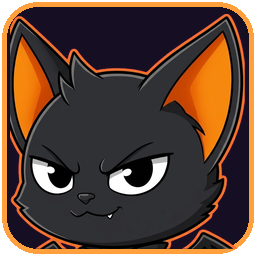
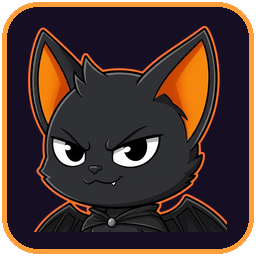
Same picture on every landscape screen, larger lobby controls, no false out-of-sync with computer seats
- Landscape screens draw one picture with a 16:9 core and scale it with CSS; wider screens fill left and right. Android full screen keeps the same layout.
- Lobby, hero picker, dialogs and settings button are larger; the bat portrait sits inside its frame; the lobby says why it has no room code.
- Computer seats send the real landing of their throws, so the page no longer reports "out of sync" for them.

diff --git a/index.html b/index.html
@@ -460,7 +460,7 @@
     /* The box alone sets the width of the whole element, so the left and right boxes mirror each other; the label floats centred above it. */
     html .top-supply { width:44px; min-height:44px; justify-content:center; align-items:center; }   /* the touch area stays 44 px; the drawn box inside is smaller (owner: supply smaller) */
     html .top-supply .ts-label { position:absolute; left:50%; bottom:100%; transform:translateX(-50%); white-space:nowrap; margin-bottom:2px; }
-    :root { --max-aspect: 2.4; }
+    :root { --max-aspect: calc(16 / 9); }   /* LOCKED (owner 2026-11-26, MOBILE-RATIO-1): the stage is 16:9 on every screen; spare width shows the backdrop. Pinned by scripts/test_phone_viewport.js */
     /* Overlays that sit at the edges of the 16:9 core keep their place when the canvas is widened (--pad-frac = side area share of the width). */
     html .top-supply.left { left:calc(var(--pad-frac, 0) * 100% + (1 - 2 * var(--pad-frac, 0)) * 1.2%) !important; }
     html .top-supply.right { right:calc(var(--pad-frac, 0) * 100% + (1 - 2 * var(--pad-frac, 0)) * 1.2%) !important; }
@@ -626,7 +626,7 @@
     @media (max-height:540px) and (orientation:landscape) {
       body { justify-content:flex-start; padding-left:max(env(safe-area-inset-left, 0px), env(safe-area-inset-right, 0px)); padding-right:max(env(safe-area-inset-left, 0px), env(safe-area-inset-right, 0px)); }   /* 2026-11-24 (owner, option 1): keep the camera-hole inset clear on BOTH sides so the stage is centred; with no inset nothing changes (scripts/test_safe_area_center.js) */
       /* 2026-11-17 (owner: 'the bottom part used to be INSIDE the frame, like the desktop shot'): on a landscape phone the stage takes the full visible height and the dock sits INSIDE it, 6 px above the bottom edge, as wide as 94 percent of the stage (at most 640 px). Everything is a proportion of the stage, so it follows any viewport; layoutReport() and scripts/measure_phone_layout.mjs check the coordinates. */
-      #game-container { width:min(100%, calc((var(--visible-viewport-height) - env(safe-area-inset-top) - env(safe-area-inset-bottom)) * var(--max-aspect, 2.4))); height:min(calc(var(--visible-viewport-height) - env(safe-area-inset-top) - env(safe-area-inset-bottom)), calc((var(--visible-viewport-width) - env(safe-area-inset-left) - env(safe-area-inset-right)) * 9 / 16)); aspect-ratio:auto; border-radius:0; }
+      #game-container { width:min(100%, calc((var(--visible-viewport-height) - env(safe-area-inset-top) - env(safe-area-inset-bottom)) * var(--max-aspect, 1.7778))); height:min(calc(var(--visible-viewport-height) - env(safe-area-inset-top) - env(safe-area-inset-bottom)), calc((var(--visible-viewport-width) - env(safe-area-inset-left) - env(safe-area-inset-right)) * 9 / 16)); aspect-ratio:auto; border-radius:0; }
       /* the dock's size, place and children now live in css/dock_stage.css (one owner, no media query) */
       #top-controls { position:absolute; top:12% !important; right:8px !important; left:auto !important; transform:none !important; }
       .top-supply.left, .top-supply.right { top:34% !important; }   /* both supply boxes at the same height (owner: the heights differed: the right one sat at 40 percent while the left one sat at 20) */
@@ -652,7 +652,51 @@
     #settings-sheet input[type="range"] { flex: 1 1 auto; min-width: 48px; width: auto; }
     #settings-sheet .settings-control output, #settings-sheet .settings-value { font-size: 13px; min-width: 38px; text-align: right; }
     /* ROOM-FLOW lobby (the second page) and the name dialog */
-    #lobby { position:fixed; inset:0; z-index:70; display:grid; grid-template-columns:minmax(0,1fr); grid-template-rows:auto minmax(0,1fr) auto auto auto; gap:6px; padding:max(6px, env(safe-area-inset-top)) max(16px, env(safe-area-inset-right)) max(6px, env(safe-area-inset-bottom)) max(16px, env(safe-area-inset-left)); background:radial-gradient(ellipse at 50% 0%, #2a1650 0%, #120a22 70%); color:#f1eaff; font-family:var(--font-body, system-ui, sans-serif); overflow:auto; }
+    #lobby { position:fixed; left:50%; top:50%; width:1024px; height:576px; transform:translate(-50%,-50%) scale(var(--lobby-fit,1)); transform-origin:center; border:3px solid #5a328c; border-radius:14px; box-shadow:0 0 0 100vmax rgba(5,2,10,.9); box-sizing:border-box; z-index:70; display:grid; grid-template-columns:minmax(0,1fr); grid-template-rows:auto minmax(0,1fr) auto auto auto; gap:6px; padding:max(6px, env(safe-area-inset-top)) max(16px, env(safe-area-inset-right)) max(6px, env(safe-area-inset-bottom)) max(16px, env(safe-area-inset-left)); background:radial-gradient(ellipse at 50% 0%, #2a1650 0%, #120a22 70%); color:#f1eaff; font-family:var(--font-body, system-ui, sans-serif); overflow:auto; }
+    /* MOBILE-RATIO-1: the lobby is ONE 1024 x 576 picture scaled to the screen, so a phone and a computer show exactly the same thing */
+    @media (orientation:portrait) { #lobby { left:0; top:0; width:100vw; height:var(--visible-viewport-height, 100vh); transform:none; border-width:0; border-radius:0; } }
+    /* ONE PICTURE (MOBILE-RATIO-1): see pictureFit() in the script */
+    html.one-picture #game-container { position:fixed !important; left:50% !important; top:50% !important; width:var(--pic-w) !important; height:var(--pic-h) !important; max-width:none !important; max-height:none !important; aspect-ratio:auto !important; transform:translate(-50%,-50%) scale(var(--pic-scale)) !important; transform-origin:center center; }
+    html.one-picture #bottom-dock { width:calc(min(84cqw, 1111px) / var(--dock-scale, 1)) !important; }   /* 84 percent of the 1323 px core, not of the widened stage */
+    html.one-picture #settings-sheet { width:720px !important; max-width:720px !important; max-height:632px !important; }
+    html.one-picture #coin-toss-coin { width:260px; }
+    html.one-picture #lobby-qr canvas { width:240px; height:240px; }
+    html.in-lobby #start-screen, html.in-lobby #top-controls { visibility:hidden !important; }   /* the 16:9 lobby does not cover the whole screen: nothing behind it may take a tap (red team L01-L03) */
+    /* the old ?room= friends panel keeps its compact sizes inside the single picture, so the code, QR and link stay visible without scrolling */
+    html.one-picture #start-screen.seats-open #friends-panel { width:600px !important; max-height:352px !important; padding:5px 40px 5px 10px !important; }
+    html.one-picture #start-screen.seats-open #friends-panel .seat-row, html.one-picture #start-screen.seats-open #friends-panel .seat-row + .seat-row { margin:1px 0; gap:4px; }
+    html.one-picture #start-screen.seats-open #friends-panel .seat-choice, html.one-picture #start-screen.seats-open #friends-panel .seat-level { height:28px; min-height:28px; padding:2px 7px; font-size:11px; }
+    html.one-picture #start-screen.seats-open #friends-panel .room-actions button { min-height:28px; min-width:82px; padding:2px 8px; font-size:11px; }
+    html.one-picture #room-details { margin-top:2px; gap:3px 10px; grid-template-columns:auto 70px; } html.one-picture #room-qr { width:70px; height:70px; }
+    html.one-picture #side-chooser .side-card { width:900px; max-height:none; gap:16px; } html.one-picture #side-chooser h2 { font-size:34px; } html.one-picture #side-chooser .side-code { font-size:40px; }
+    html.one-picture #side-chooser .side-btn { min-height:140px; font-size:36px; } html.one-picture #side-chooser .seat-choice { min-height:140px; min-width:140px; font-size:28px; }
+    /* BIGGER CONTROLS (owner 2026-11-26): the same enlargement on every device, inside the 744 px picture, so nothing leaves it. Checked by the overflow audit. */
+    html.one-picture #lobby { width:820px; height:461px; }
+    /* friend battle (owner 2026-11-26: "bigger, so the others can read it"): seats, names, room code */
+    html.one-picture #lobby { padding-top:4px; padding-bottom:4px; gap:5px; }
+    html.one-picture #lobby-code { font-size:28px !important; } html.one-picture #lobby-title, html.one-picture #lobby-count { font-size:20px; } html.one-picture #lobby-bar button { font-size:16px; }
+    html.one-picture .lobby-team h3 { font-size:19px; margin-bottom:3px; } html.one-picture .lobby-cells { gap:4px; }
+    html.one-picture .lobby-cell { min-height:52px; padding-top:0; padding-bottom:0; line-height:1.2; } html.one-picture .lobby-cell .who { font-size:22px; font-weight:800; } html.one-picture .lobby-cell small { font-size:15px; }
+    html.one-picture .lobby-cell .chip { width:16px; height:36px; } html.one-picture .lobby-cell .cell-act, html.one-picture .lobby-cell .cell-kick { font-size:16px !important; min-height:40px !important; font-weight:700; }
+    html.one-picture #lobby-foot label { font-size:17px; } html.one-picture #lobby-foot input { width:24px; height:24px; } html.one-picture #lobby-start { font-size:18px; min-height:46px; } html.one-picture #lobby-wait { font-size:15px; }
+    /* hero choice (owner 2026-11-26: too small): its own centred row under the teams, large portrait, large Lock button beside it */
+    html.one-picture #lobby-mine { justify-content:center; gap:14px; padding:4px 0; }
+    html.one-picture #lobby-heroes { gap:10px; } html.one-picture #lobby-heroes .hero-pick { min-height:84px; gap:10px; padding:4px 14px 4px 6px; font-size:20px; font-weight:800; border-width:2px; border-color:#ffd32a; }
+    html.one-picture #lobby-heroes .hero-pick-ico { width:72px; height:72px; border-radius:10px; }
+    html.one-picture #lobby-lock { min-height:68px; min-width:130px; font-size:22px; font-weight:800; }
+    html.one-picture #lobby-rename { min-height:48px; } html.one-picture #lobby-me { font-size:18px; }
+    html.one-picture #lobby:has(#lobby-invite-box:not([hidden])) .lobby-cell { min-height:0; padding-top:0; padding-bottom:0; line-height:1.05; }   /* the invite box takes a row: the three cells of a team close up instead of scrolling */
+    html.one-picture #lobby:has(#lobby-invite-box:not([hidden])) .lobby-cell .cell-act, html.one-picture #lobby:has(#lobby-invite-box:not([hidden])) .cell-kick { min-height:30px !important; }
+    html.one-picture #lobby:has(#lobby-invite-box:not([hidden])) .lobby-cell .who { font-size:18px; } html.one-picture #lobby:has(#lobby-invite-box:not([hidden])) .lobby-cell small { font-size:12px; } html.one-picture #lobby:has(#lobby-invite-box:not([hidden])) .lobby-cell .chip { height:28px; }
+    html.one-picture #lobby:has(#lobby-invite-box:not([hidden])) #lobby-invite-box { flex-wrap:nowrap; } html.one-picture #lobby:has(#lobby-invite-box:not([hidden])) #lobby-invite-text { flex:1 1 auto; min-width:0; white-space:nowrap; overflow:hidden; text-overflow:ellipsis; }
+    html.one-picture #settings-sheet { scale:1.35; }
+    html.one-picture #first-hint { scale:1.2; }
+    html.one-picture #name-dialog .name-card, html.one-picture #join-code-dialog .name-card { scale:1.45; }
+    html.one-picture #coin-call button { min-width:180px; min-height:68px; font-size:26px; }
+    html.one-picture #coin-call { font-size:28px; }
+    html.one-picture #coin-toss-coin { width:300px; }
+    html.one-picture:not(.pk-a):not(.pk-b) #top-controls { width:calc(44px * var(--dock-scale, 1)) !important; height:calc(44px * var(--dock-scale, 1)) !important; right:calc(var(--pad-frac, 0) * 100% + 8px) !important; }
+    html.one-picture:not(.pk-a):not(.pk-b) #top-controls #settings-btn > span { font-size:calc(34px * var(--dock-scale, 1)) !important; }
     #lobby[hidden], #name-dialog[hidden], #join-code-dialog[hidden], #lobby-qr[hidden], #lobby-invite-box[hidden], #lobby-toast[hidden], #lobby-countdown[hidden], #lobby-wait[hidden] { display:none !important; }
     #lobby button { min-height:40px; padding:4px 12px; border-radius:10px; border:1.5px solid #7158e2; background:#1d1238; color:#f1eaff; font:inherit; font-size:14px; cursor:pointer; }
     #lobby button:disabled { opacity:.42; cursor:not-allowed; }
@@ -918,6 +962,36 @@
       return { viewport: vv, stage: stage, dock: dockVisible ? dock : null, feetY: feetY, stageInside: stageInside, dockInStage: dockInStage, feetClear: feetClear, dockMissing: dockMissing, ok: stageInside && dockInStage && feetClear && !dockMissing };
     }
     window.layoutReport = layoutReport;
+    // ONE PICTURE (owner 2026-11-26, MOBILE-RATIO-1: "every device shows the same thing; fill left and right"; foldables excepted). On a landscape screen the whole game is drawn at ONE design size, 744 px high, with the same
+    // desktop style rules everywhere, and CSS scales that picture to the screen. The 16:9 core (menu, lobby, HUD, dock) is identical on all devices; a wider screen only gets more scenery at the sides, up to 2.4 : 1.
+    // It uses no viewport setting, so it also works in Android full screen (which ignores the meta viewport). Portrait screens and two-segment (folding) screens keep the responsive layout.
+    const PIC_H = 744, PIC_MIN_W = 1323, PIC_MAX_ASPECT = 2.4;
+    let pictureScale = 1, pictureOn = false;   // screen css px per picture px; is the single picture shown
+    function pictureFit(w, h, coarse) {   // pure: w, h = the free screen area in css px. null = no single picture (portrait)
+      const margin = coarse ? 0 : 24, aw = w - margin, ah = h - margin;
+      if (!(w > h) || !(aw > 0) || !(ah > 0)) return null;
+      const picW = Math.max(PIC_MIN_W, Math.min(Math.round(PIC_H * PIC_MAX_ASPECT), Math.round(PIC_H * aw / ah)));
+      return { w: picW, h: PIC_H, scale: Math.round(Math.min(ah / PIC_H, aw / picW) * 10000) / 10000 };
+    }
+    const mutedRules = new Map();   // screen-size style rules switched off while the single picture is shown (their original condition text)
+    function muteSizeRules(on) {
+      if (!on) { mutedRules.forEach((text, rule) => { rule.media.mediaText = text; }); mutedRules.clear(); return; }
+      const walk = rules => { for (const rule of Array.from(rules || [])) {
+        if (rule.media && !mutedRules.has(rule) && /(max|min)-(width|height)|orientation|hover: *none/.test(rule.media.mediaText)) { mutedRules.set(rule, rule.media.mediaText); rule.media.mediaText = "not all"; }
+        else if (rule.cssRules && !rule.selectorText) walk(rule.cssRules);
+      } };
+      for (const sheet of Array.from(document.styleSheets || [])) { try { walk(sheet.cssRules); } catch (e) { /* a sheet of another origin */ } }
+    }
+    function applyPicture(width, height, folding) {   // returns the picture, or null
+      const root = document.documentElement, style = document.body ? getComputedStyle(document.body) : null;
+      const inset = style ? (parseFloat(style.paddingLeft) || 0) + (parseFloat(style.paddingRight) || 0) : 0;
+      const pic = folding ? null : pictureFit(width - inset, height, typeof matchMedia === "function" && matchMedia("(pointer:coarse)").matches);
+      root.classList.toggle("one-picture", !!pic);
+      muteSizeRules(!!pic);
+      pictureScale = pic ? pic.scale : 1; pictureOn = !!pic;
+      if (pic) { root.style.setProperty("--pic-w", pic.w + "px"); root.style.setProperty("--pic-h", pic.h + "px"); root.style.setProperty("--pic-scale", String(pic.scale)); }
+      return pic;
+    }
     function fitVisibleViewport() {
       const viewport = window.visualViewport;
       const seg = pickViewportSegment();
@@ -930,9 +1004,11 @@
       root.style.setProperty("--visible-viewport-height", height + "px");
       // The start screen is laid out for at least 340 px of height; a shorter window (browser bars showing) scales it down evenly.
       root.style.setProperty("--start-scale", String(Math.min(1, Math.round(height / 340 * 1000) / 1000 || 1)));
-      const compactStart = width < 800 || height < 360;
+      const pic = applyPicture(width, height, !!seg);
+      const compactStart = !pic && (width < 800 || height < 360);
       root.classList.toggle("start-compact", compactStart);
-      root.style.setProperty("--start-fit", compactStart ? "1" : String(Math.round(Math.min(width / 800, height / 360) * 1000) / 1000 || 1));   // scale only when >= 800 x 360; smaller viewports use responsive start-compact layout at 1:1
+      root.style.setProperty("--start-fit", compactStart ? "1" : String(Math.round(Math.min(Math.min(pic ? pic.w : width, (pic ? pic.h : height) * 16 / 9) / 800, (pic ? pic.h : height) / 360) * 1000) / 1000 || 1));   // scale only when >= 800 x 360; smaller viewports use responsive start-compact layout at 1:1
+      root.style.setProperty("--lobby-fit", String(Math.round(Math.min(pic ? PIC_MIN_W / 838 : width / 1056, pic ? pic.h / 473 : height / 594) * 1000) / 1000 || 1));   // 16 px / 9 px of margin around the 1024 x 576 lobby
       const applyStage = () => {
         const fullHeightStageWidth = Math.min(width, height * 16 / 9);
         const sideMargin = Math.max(0, (width - fullHeightStageWidth) / 2);
@@ -940,7 +1016,7 @@
         root.classList.toggle("has-side-margin", false);   // the stage now fills the width; no side columns
         try { if (canvas && canvas.clientHeight > 0) setViewWidth(canvas.clientWidth / canvas.clientHeight); } catch (e) { /* canvas not ready yet */ }   // setViewWidth also re-applies the render scale
         const gc = document.getElementById("game-container");
-        if (gc) { const r = gc.getBoundingClientRect(); root.style.setProperty("--stage-w", r.width + "px"); root.style.setProperty("--stage-h", r.height + "px");
+        if (gc) { const r = gc.getBoundingClientRect(); root.style.setProperty("--stage-w", (gc.offsetWidth || r.width) + "px"); root.style.setProperty("--stage-h", (gc.offsetHeight || r.height) + "px");
           // the dock is designed for a stage 390 px high (scale 1, 52 px bar, 6 px gap; the reference comes from scripts/dock_fit_mask.py, binary masks of figures, rings and shadows) and scales as ONE picture with the stage height: scale = stage height / 390, never above 3. No per-size tuning; layoutReport measures the real feet line.
           root.style.setProperty("--dock-scale", String(Math.min(3, Math.round((gc.clientHeight || r.height) / 390 * 1000) / 1000))); }
       };
@@ -1410,7 +1486,9 @@
     function setRoomStatus(key, params) { const el = document.getElementById("room-status"); if (!el) return; if (!key) { el.hidden = true; el.textContent = ""; return; } el.textContent = T(key, params); el.hidden = false;
       if (joinRoomCode && !lobbyMode && !matchStarted && !relayPanelShown && (key === "room.unreachable" || key === "room.refused" || key === "room.started")) { relayPanelShown = true; const ss = document.getElementById("start-screen"); if (ss) ss.classList.add("seats-open"); }   // a ?room= guest never opened the friends panel, so a refusal would be invisible: open it ONCE, only for the guest of a link, only before a match (red-team R5B-1, R6B-1)
     }
+    let lobbyNet = "connecting";   // last relay status; the lobby has no room code until the room server answers, and must say why
     function roomStatusFromRelay(status) {
+      lobbyNet = status; if (lobbyMode && !relayRoomConfirmed) lobbyRender();
       if (relayRoomConfirmed) { setRoomStatus(status === "closed" ? "room.unreachable" : null); return; }   // a room that exists: only a final loss is an error; a reconnect is not
       if (status === "connecting") setRoomStatus("room.connecting"); else if (status === "reconnecting" || status === "closed") setRoomStatus("room.unreachable"); else setRoomStatus(null);
     }
@@ -1594,7 +1672,8 @@
         const start = { x: round1(u.x + dirX * fwd), y: round1(u.y - up) };
         const worldUnit = TEAM_N > 1 ? worldId : (filler.team === "red" ? "red_1" : "white_1");
         try {
-          filler.client.sendAction({ round: cur.round, phase: filler.team, unit: worldUnit, kind: "throw", angle, power, start, dirX, claimed_landing: { x: tgt ? round1(tgt.x) : 960, y: 860 } });
+          const land = relayFlightLanding(start.x, start.y, power, angle, dirX, prof.weapon === "proj_soundwave");   // the real landing: a made-up one (the target) raised "out of sync" on every computer throw
+          filler.client.sendAction({ round: cur.round, phase: filler.team, unit: worldUnit, kind: "throw", angle, power, start, dirX, claimed_landing: { x: Math.round(land.x), y: Math.round(land.y) } });
           filler.client.endTurn(cur.round, filler.team);
         } catch (_) {}
       }, 650);
@@ -1685,7 +1764,7 @@
     }
     function lobbyStart(name, how) {   // how: { create: true } or { code, invite }
       if (!relayAddress || typeof RelayClient === "undefined" || typeof LobbyModel === "undefined") { lobbyMode = true; lobbyState = null; lobbyShow(true); lobbyToast(T("lobby.noServer")); return; }
-      lobbyMode = true; lobbyState = null; lobbyInvite = ""; relayLeft = false; relaySeatId = ""; relaySeats = [];
+      lobbyMode = true; lobbyState = null; lobbyInvite = ""; relayLeft = false; relaySeatId = ""; relaySeats = []; lobbyNet = "connecting";   // never show the last room's failure on a new attempt (red team L04)
       if (!how.create && !lobbyResumeTried) { lobbyResumeTried = true; const token = lobbyStoredSeat(how.code); if (token) { resumeSeat = token; how = Object.assign({}, how, { resume: true }); } }
       let client = null; try { client = connectRelay(); } catch (_) { client = null; }
       if (!client) { lobbyToast(T("lobby.noServer")); lobbyShow(true); return; }
@@ -1842,6 +1921,7 @@
       });
       set("lobby-wait", el => {
         const parts = v.waiting.map(w => w.kind === "unlocked" ? T("lobby.waitLock", { name: w.seatId === relaySeatId ? T("lobby.you") : w.ai ? T("lobby.ai") : (w.name || T("lobby.unnamed")) }) : w.kind === "invite" ? T("lobby.waitInvite", { name: w.name || T("lobby.unnamed") }) : T("lobby.waitFree", { team: T(w.team === "red" ? "slot.red" : "slot.white"), n: w.n }));
+        if (!v.code) { el.textContent = T(lobbyNet === "reconnecting" || lobbyNet === "closed" ? "room.unreachable" : "room.connecting"); el.hidden = false; return; }
         el.textContent = parts.length ? T("lobby.waiting", { list: parts.join(T("lobby.sep")) }) : ""; el.hidden = !parts.length;
       });
     }
@@ -2050,7 +2130,7 @@
       return !ids.length || ids[0] === relaySeatId;
     }
     const relayWhenMyTurn = (round, fn) => { if (relayMyTurn(round)) fn(); else relayWait = { round, fn }; };   // the relay's phase is the single truth for whose turn it is: wait until it says mine
-    const relayNote = (key, params) => floatTexts.push({ x: CANVAS_W / 2, y: 230, text: T(key, params), color: "#a5f3ff", alpha: 1.0, age: 0, ttl: 2.5, fontSize: 18 });
+    const relayNote = (key, params) => floatTexts.push({ x: CANVAS_W / 2, y: 345, text: T(key, params), color: "#a5f3ff", alpha: 1.0, age: 0, ttl: 2.5, fontSize: 18 });
     const round1 = x => Math.round(x * 10) / 10;
     function relayStream(k) {   // a seeded random stream for one throw: the same numbers on every device (shock, lifesteal, bounce count, shuriken spread)
       let st = (matchSeed ^ Math.imul(k + 1, 0x9e3779b1)) >>> 0;
@@ -2320,8 +2400,9 @@
         if (done && done.then) done.then(lock, () => {}); else lock();
       } catch (e) { /* unsupported: stay in the browser */ }
     }
-    document.getElementById("start-screen").addEventListener("pointerup", enterPhoneFullscreen, { passive: true });
-    // (a touch pointerdown is not a user activation; the listener above waits for pointerup)
+    // A browser cannot force full screen: it needs the player's own tap, and the player can always leave. So EVERY tap anywhere puts a touch device back into full screen (owner 2026-11-26); typing fields are left alone (the keyboard).
+    // It listens to CLICK, not pointerup: the tap has already picked its button, so the resize cannot move another control under the finger.
+    document.addEventListener("click", e => { const t = e.target; if (!(t && t.closest && t.closest("input:not([type=checkbox]):not([type=range]), textarea, #name-dialog, #join-code-dialog"))) enterPhoneFullscreen(); }, { capture: true });
     document.addEventListener("fullscreenchange", () => { fitVisibleViewport(); setTimeout(fitVisibleViewport, 300); });
     // ?dbg=1 shows the viewport numbers on screen (real-phone diagnosis only; nothing is shown without the flag).
     if (/[?&]dbg=1/.test(location.search)) {
@@ -2426,7 +2507,7 @@
     // physics number is unchanged; only the size of the backing store changes. On a touch screen the canvas is drawn at about the number of device pixels the stage really covers, with at most 2 device pixels per css
     // pixel and never below half the world size: a 756 x 360 phone at devicePixelRatio 3 went from about 2.5 million pixels per frame to about 1.1 million. Mouse screens keep the full size.
     let RENDER_SCALE = 1;
-    function renderScaleFor(cssH = canvas.clientHeight, ratio = window.devicePixelRatio, coarse = typeof matchMedia === "function" && matchMedia("(pointer:coarse)").matches) {   // arguments: a test passes a faked screen
+    function renderScaleFor(cssH = canvas.clientHeight * (typeof pictureScale === "number" ? pictureScale : 1), ratio = window.devicePixelRatio, coarse = typeof matchMedia === "function" && matchMedia("(pointer:coarse)").matches) {   // arguments: a test passes a faked screen
       if (!coarse) return 1;
       const h = cssH || 360, dpr = Math.min(ratio || 1, 2);
       return Math.max(0.5, Math.min(1, Math.round(h * dpr / CANVAS_H * 20) / 20));
@@ -2439,7 +2520,7 @@
     // Drawn height of a unit's art frame (back to the original 220 on 2026-11-17, owner: restore the original spec; size_frozen.json pins it; the frame is square for 1024x1024 art). Overlays above the head follow BODY_LIFT; hit boxes, launch points and physics are separate constants and did not change.
     const BODY_PX = 220, BODY_LIFT = BODY_PX - 220;
     // Canvas coordinates stay logical; these helpers preserve readable screen sizes on small displays.
-    function displayScale() { const box = canvas.getBoundingClientRect(); return box.width > 0 ? box.width / VIEW_W : 1; }
+    function displayScale() { const w = canvas.clientWidth || canvas.getBoundingClientRect().width; return w > 0 ? w / VIEW_W : 1; }   // picture px per world px: the same on every device (not the shrunk screen size)
     function uiScale() { return Math.max(1, 0.55 / displayScale()); }
     // The hp bar over a head: 150 screen units wide, but in a team match its neighbours stand 120 to 180 world px away and the bars used to overlap into one strip (owner 2026-11-17: 'the boxes above the heads have shifted'): the bar never gets wider than 85 percent of the gap to the nearest living teammate. One unit per team: exactly the old width.
     function hpBarWidthFor(u) {
@@ -2449,7 +2530,7 @@
       unitsOf(sideOfUnit(u)).forEach(t => { if (t !== u && t.hp > 0) gap = Math.min(gap, Math.abs(t.x - u.x)); });
       return Math.min(full, Math.max(24, 0.85 * gap));
     }
-    function fs(px) { return Math.max(px, 11 / displayScale()); }
+    function fs(px) { return Math.max(px, (typeof pictureOn === "boolean" && pictureOn ? 14 : 11) / displayScale()); }   // small canvas text is larger in the single picture
     function drawUiText(text, x, y, px, color, align) {
       ctx.font = "bold " + fs(px) + "px " + FONT_BODY;
       ctx.fillStyle = color;
@@ -3765,7 +3846,7 @@
     }
     function slingMove(e) {
       if (!sling) return;
-      const r = slingFrom(e.clientX - sling.ax, e.clientY - sling.ay), rc = canvas.getBoundingClientRect();
+      const r = slingFrom((e.clientX - sling.ax) / pictureScale, (e.clientY - sling.ay) / pictureScale), rc = canvas.getBoundingClientRect();
       if (r.pull > SLING_DEAD_PX && isFinite(r.angle)) setActiveAngle(r.angle);   // inside the dead zone, or pulling the wrong way, the angle stays where it was
       sling.tx = (e.clientX - rc.left) * (VIEW_W / rc.width) - PAD; sling.ty = (e.clientY - rc.top) * (CANVAS_H / rc.height);
     }

diff --git a/scripts/test_phone_viewport.js b/scripts/test_phone_viewport.js
@@ -1,0 +1,53 @@
+#!/usr/bin/env node
+'use strict';
+// MOBILE-RATIO-1 (owner 2026-11-26: "every device shows the same thing; fill left and right"; foldables excepted). Landscape screens show ONE picture of a fixed design size, scaled by CSS; it must not depend on the
+// meta viewport (Android full screen ignores it). Runs the REAL pictureFit of index.html in a vm.
+const assert = require('assert'), fs = require('fs'), path = require('path'), vm = require('vm');
+const html = fs.readFileSync(path.join(__dirname, '..', 'index.html'), 'utf8');
+const from = html.indexOf('const PIC_H'), to = html.indexOf('const mutedRules');
+assert.ok(from > 0 && to > from, 'the picture block is in index.html');
+const context = vm.createContext({});
+vm.runInContext(html.slice(from, to), context);
+const call = (...a) => JSON.parse(vm.runInContext('JSON.stringify(pictureFit(' + a.join(',') + '))', context));
+let ok = 0, failed = 0;
+function check(name, fn) { try { fn(); ok++; console.log('ok   - ' + name); } catch (e) { failed++; console.log('FAIL - ' + name + '\n       ' + e.message); } }
+
+check('LOCKED: the picture is 744 px high with a 1323 px (16:9) core on every landscape screen', () => {
+  for (const [w, h, coarse] of [[667, 375, true], [720, 266, true], [800, 360, true], [844, 390, true], [932, 430, true], [1024, 768, true], [1366, 1024, true], [1366, 768, false], [1920, 1080, false], [2560, 1080, false], [600, 380, true]]) {
+    const r = call(w, h, coarse), m = coarse ? 0 : 24;
+    assert.strictEqual(r.h, 744, w + 'x' + h);
+    assert.ok(r.w >= 1323 && r.w <= Math.round(744 * 2.4), w + 'x' + h + ' width ' + r.w);
+    assert.ok(r.w * r.scale <= w - m + 0.5 && r.h * r.scale <= h - m + 0.5, w + 'x' + h + ' the whole picture is on the screen');
+  }
+});
+check('a screen wider than 16:9 is filled left and right, up to 2.4 : 1', () => {
+  const r = call(800, 360, true);
+  assert.ok(Math.abs(r.w * r.scale - 800) < 1 && Math.abs(r.h * r.scale - 360) < 1, JSON.stringify(r));
+  assert.strictEqual(call(1200, 360, true).w, Math.round(744 * 2.4));
+});
+check('portrait keeps the responsive layout', () => { assert.strictEqual(call(390, 844, true), null); assert.strictEqual(call(0, 0, true), null); });
+check('LOCKED: no meta viewport rewriting; folding screens keep the responsive layout', () => {
+  assert.ok(!/meta\.setAttribute\("content"/.test(html));
+  assert.match(html, /const pic = applyPicture\(width, height, !!seg\);/);
+});
+check('the stage is scaled as one picture, the dock stays inside the core, drag distance follows the picture', () => {
+  assert.match(html, /html\.one-picture #game-container \{ position:fixed !important;[^\n]*scale\(var\(--pic-scale\)\) !important/);
+  assert.match(html, /html\.one-picture #bottom-dock \{ width:calc\(min\(84cqw, 1111px\)/);
+  assert.match(html, /slingFrom\(\(e\.clientX - sling\.ax\) \/ pictureScale, \(e\.clientY - sling\.ay\) \/ pictureScale\)/);
+});
+check('LOCKED: the lobby is one 1024 x 576 picture', () => {
+  assert.match(html, /#lobby \{ position:fixed; left:50%; top:50%; width:1024px; height:576px; transform:translate\(-50%,-50%\) scale\(var\(--lobby-fit,1\)\)/);
+});
+check('a lobby without a room code says why (connecting or unreachable)', () => {
+  assert.match(html, /if \(!v\.code\) \{ el\.textContent = T\(lobbyNet === "reconnecting" \|\| lobbyNet === "closed" \? "room\.unreachable" : "room\.connecting"\)/);
+});
+check('nothing behind the lobby can be tapped, and a new attempt starts as connecting', () => {
+  assert.match(html, /html\.in-lobby #start-screen, html\.in-lobby #top-controls \{ visibility:hidden !important; \}/);
+  assert.match(html, /relaySeats = \[\]; lobbyNet = "connecting";/);
+});
+check('a computer seat claims the landing its own throw really has', () => {
+  assert.match(html, /const land = relayFlightLanding\(start\.x, start\.y, power, angle, dirX, prof\.weapon === "proj_soundwave"\);/);
+  assert.ok(!/claimed_landing: \{ x: tgt \?/.test(html));
+});
+console.log('test_phone_viewport: ' + ok + ' ok, ' + failed + ' failed');
+process.exit(failed ? 1 : 0);

diff --git a/scripts/test_safe_area_center.js b/scripts/test_safe_area_center.js
@@ -2,6 +2,7 @@
 'use strict';
 // Owner 2026-11-24 (option 1, symmetric): on a landscape phone the screen's safe area (camera hole) was only kept clear on ONE side, so the stage was left-aligned and a strip of background showed on the other side
 // (real phone: safe-area-inset-right 36 px, stage 764 px wide at left 0, right gap 39 px against 3 px on the left). Now the same inset is kept clear on both sides and the stage is centred.
+// 2026-11-26 (owner, MOBILE-RATIO-1): the stage is locked to 16:9, and later the same day drawn as one scaled picture filling left and right (up to 2.4 : 1), so the no-inset numbers below were re-pinned on purpose.
 // A real Chrome (DevTools Protocol, Emulation.setSafeAreaInsetsOverride) loads the page, starts a match and measures the stage. The cases WITHOUT an inset are pinned to the numbers measured before the change (they must not move).
 // Needs a local socket and Chrome: not for the Claude sandbox.
 const { spawn } = require('child_process'), fs = require('fs'), http = require('http'), os = require('os'), path = require('path');
@@ -12,10 +13,10 @@ const types = { '.html': 'text/html', '.js': 'text/javascript', '.json': 'applic
 const sleep = ms => new Promise(r => setTimeout(r, ms));
 // [viewport w, h, insets {top,right,bottom,left}, expected canvas rect or null (null = only check that the two side gaps are equal)]
 const CASES = [
-  { name: 'no inset 800x360 (unchanged)', w: 800, h: 360, ins: { top: 0, right: 0, bottom: 0, left: 0 }, canvas: [3, 3, 794, 354] },
-  { name: 'no inset 923x415 (unchanged)', w: 923, h: 415, ins: { top: 0, right: 0, bottom: 0, left: 0 }, canvas: [3, 3, 917, 409] },
-  { name: 'no inset 873x392 (unchanged)', w: 873, h: 392, ins: { top: 0, right: 0, bottom: 0, left: 0 }, canvas: [3, 3, 867, 386] },
-  { name: 'no inset 720x266 (unchanged)', w: 720, h: 266, ins: { top: 0, right: 0, bottom: 0, left: 0 }, canvas: [44, 3, 632, 260] },
+  { name: 'no inset 800x360 (one picture)', w: 800, h: 360, ins: { top: 0, right: 0, bottom: 0, left: 0 }, canvas: [2, 1, 797, 357] },
+  { name: 'no inset 923x415 (one picture)', w: 923, h: 415, ins: { top: 0, right: 0, bottom: 0, left: 0 }, canvas: [2, 2, 920, 412] },
+  { name: 'no inset 873x392 (one picture)', w: 873, h: 392, ins: { top: 0, right: 0, bottom: 0, left: 0 }, canvas: [2, 2, 870, 389] },
+  { name: 'no inset 720x266 (one picture)', w: 720, h: 266, ins: { top: 0, right: 0, bottom: 0, left: 0 }, canvas: [42, 1, 636, 264] },
   { name: 'camera hole on the right, 800x360, inset 36 (the owner\'s phone)', w: 800, h: 360, ins: { top: 0, right: 36, bottom: 0, left: 0 }, canvas: null },
   { name: 'camera hole on the left, 800x360, inset 36', w: 800, h: 360, ins: { top: 0, right: 0, bottom: 0, left: 36 }, canvas: null },
   { name: 'both sides 24, 873x392', w: 873, h: 392, ins: { top: 0, right: 24, bottom: 0, left: 24 }, canvas: null },
@@ -34,6 +35,7 @@ const CASES = [
     const ev = async x => (await send('Runtime.evaluate', { expression: x, returnByValue: true })).result.result.value;
     for (const c of CASES) {
       await send('Emulation.setDeviceMetricsOverride', { width: c.w, height: c.h, deviceScaleFactor: 3, mobile: false });
+      await send('Emulation.setTouchEmulationEnabled', { enabled: true, maxTouchPoints: 5 }); await send('Emulation.setEmulatedMedia', { features: [{ name: 'pointer', value: 'coarse' }, { name: 'hover', value: 'none' }] });   // these are phone cases
       const so = await send('Emulation.setSafeAreaInsetsOverride', { insets: c.ins });
       if (so.error) { supported = false; console.error('FAIL - ' + c.name + ': this Chrome cannot override the safe area (' + so.error.message + ')'); failed = true; continue; }
       await send('Page.navigate', { url: 'http://127.0.0.1:' + port + '/index.html?team=3' }); await sleep(3000);

diff --git a/css/dock_stage.css b/css/dock_stage.css
@@ -1,11 +1,11 @@
 /* The dock's ONE owner of size and place (owner 2026-11-17: 'objects decoupled, recompute everything').
    Design space: the dock is a 52 px high bar, children at the sizes below, drawn for a stage 390 px high (scripts/dock_fit_mask.py: with the real figures, rings and shadows as binary masks, 390 is the smallest reference that never touches them at any stage height from 300 to 800 px). It is placed inside the stage and scaled as one picture by --dock-scale = stage height / 390
-   (set by fitVisibleViewport, never above 3; the JS value and the container-query value differ by the 3 px border at most). Its design width is 84 percent of the stage width divided by that scale (88 percent left no room for the 44 px gear beside it at 640 px: measure_phone_layout flagged dock / settings-btn), so it is about 780 px wide at every size.
+   (set by fitVisibleViewport, never above 3; the JS value and the container-query value differ by the 3 px border at most). Its design width is 84 percent of the stage width (never closer than 52 px to each edge, so the 44 px gear stays beside it on a very short 16:9 stage, 2026-11-26) divided by that scale (88 percent left no room for the 44 px gear beside it at 640 px: measure_phone_layout flagged dock / settings-btn), so it is about 780 px wide at every size.
    No media query: a phone, a tablet and a desktop get the same bar. Loaded after css/dock.css and css/dock_art.css, so it wins over their size rules. */
 html #bottom-dock {
   position: absolute !important; left: 50% !important; bottom: calc(6px * var(--dock-scale, 1)) !important;
   transform: translateX(-50%) scale(var(--dock-scale, 1)) !important; transform-origin: 50% 100% !important;
-  width: calc(var(--stage-w, 820px) * 0.84 / var(--dock-scale, 1)) !important; height: 52px !important; min-height: 52px !important; max-width: none !important;
+  width: calc(min(var(--stage-w, 820px) * 0.84, var(--stage-w, 820px) - 104px) / var(--dock-scale, 1)) !important; height: 52px !important; min-height: 52px !important; max-width: none !important;
   --dock-h: 52px; --dock-bottom: 0px; --tile-w: 44px; --tile-h: 44px; --gap: 4px; --pad: 4px; z-index: 20;
 }
 html #bottom-dock .skill-btn { width: 44px !important; height: 44px !important; min-width: 44px !important; min-height: 44px !important; }
@@ -21,7 +21,7 @@ html #bottom-dock .power-meter { height: 12px !important; }
    Older browsers keep the --dock-scale and --stage-w that fitVisibleViewport sets (same numbers). */
 #game-container { container-type: size; container-name: stage; }
 @supports (scale: calc(10px / 1px)) {
-  html #bottom-dock { --dock-scale: min(3, calc(100cqh / 390px)); width: calc(84cqw / var(--dock-scale)) !important; }
+  html #bottom-dock { --dock-scale: min(3, calc(100cqh / 390px)); width: calc(min(84cqw, 100cqw - 104px) / var(--dock-scale)) !important; }
 }
 
 /* Touch area (Apple 44 pt, Google 48 dp): the drawn button stays proportional, the invisible touch area is 8 px bigger all round, so a button at a scale of 0.8 still has a 43 px target. */

diff --git a/scripts/test_ui_polish.js b/scripts/test_ui_polish.js
@@ -33,7 +33,7 @@ function heroProfiles() {
 
 test("R1: canvas text and unit HP bars use display-scale helpers", () => {
   assert.match(page, /function uiScale\(\) \{ return Math\.max\(1, 0\.55 \/ displayScale\(\)\); \}/);
-  assert.match(page, /function fs\(px\) \{ return Math\.max\(px, 11 \/ displayScale\(\)\); \}/);
+  assert.match(page, /function fs\(px\) \{ return Math\.max\(px, \(typeof pictureOn === "boolean" && pictureOn \? 14 : 11\) \/ displayScale\(\)\); \}/);   // 2026-11-26: larger small text in the single picture
   assert.match(page, /function drawUiText\(/);
   assert.match(page, /ctx\.font = "bold " \+ fs\(px\) \+ "px " \+ FONT_BODY/);
   assert.match(page, /const full = 150 \* uiScale\(\);/);   // the unit bar width is 150 display units (hpBarWidthFor)

diff --git a/sw.js b/sw.js
@@ -12,7 +12,7 @@ function fetchPreferWebp(request) {
   if (!alt || !accepts) return fetch(request);
   return fetch(alt).then((response) => (response.ok ? response : fetch(request))).catch(() => fetch(request));
 }
-const CACHE_NAME = "pk-49f2d3216b";
+const CACHE_NAME = "pk-7669d5ddbe";
 const PRECACHE_URLS = [
 // PWA-PRECACHE-BEGIN
   "index.html",

diff --git a/scripts/test_doc_log_numbers.py b/scripts/test_doc_log_numbers.py
@@ -71,7 +71,7 @@ class DocNumbers(unittest.TestCase):
         self.assertEqual(len(pairs), 15)
         self.assertEqual((min(int(w) for w, h in pairs), min(int(h) for w, h in pairs), max(int(w) for w, h in pairs), max(int(h) for w, h in pairs)), (640, 300, 960, 540))
         page = read(os.path.join(ROOT, "index.html"))   # the design constants the ask file states
-        self.assertIn("Math.min(width / 800, height / 360)", page)
+        self.assertIn("Math.min(Math.min(pic ? pic.w : width, (pic ? pic.h : height) * 16 / 9) / 800, (pic ? pic.h : height) / 360)", page)   # 2026-11-26: sized from the 16:9 core of the single picture; the ask file keeps its historical numbers
         self.assertIn("min(width / 800, height / 360)", ask)
         self.assertIn("left:20px; top:8px; transform:none; z-index:58;", page)   # the Friends button in the top-left corner, as the ask file says
         for (w, h), shown in (((667, 300), "36.7 px at 667 x 300"), ((873, 330), "40 px at 873 x 330")):
